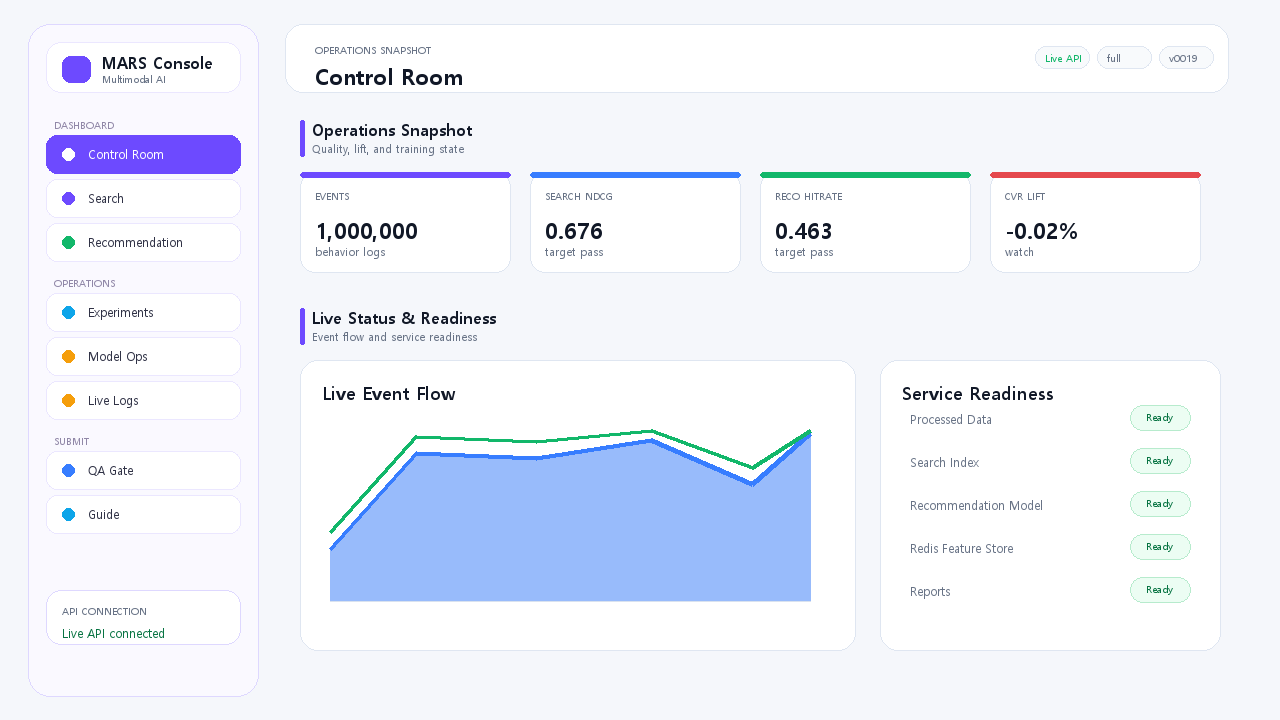
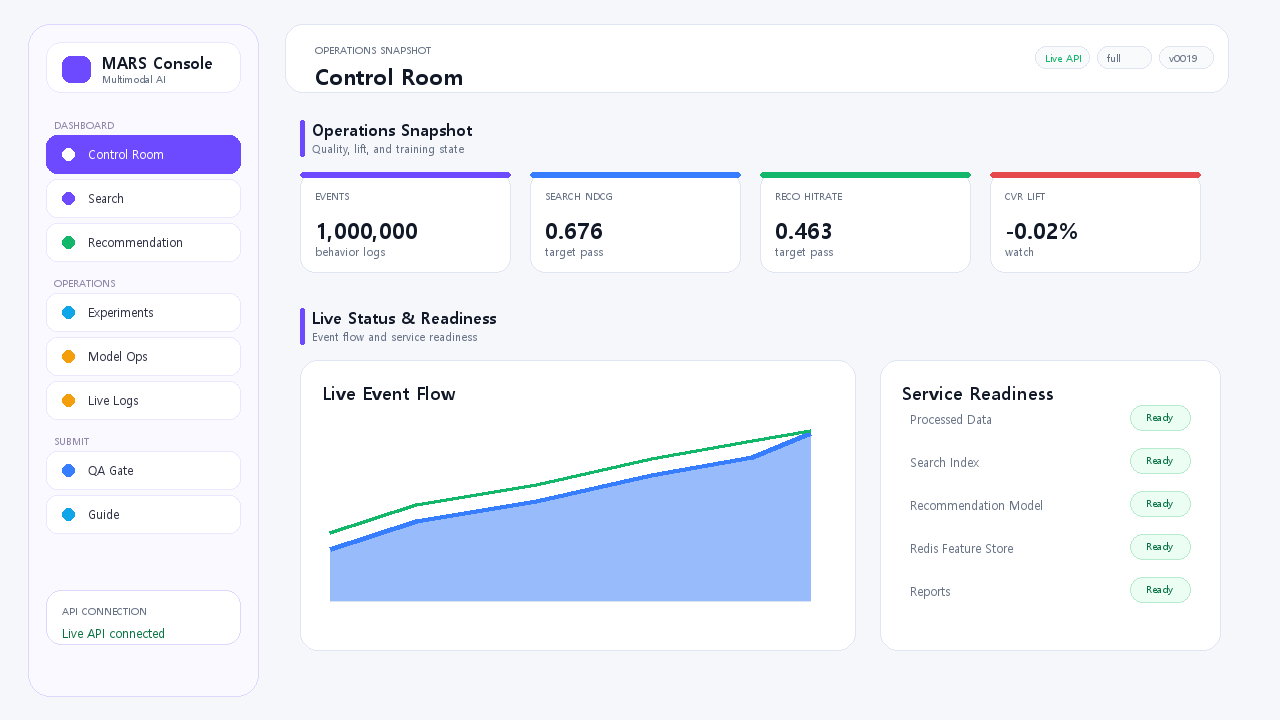
Restore cumulative live event flow

Changed region(s): [[0.25, 0.5806, 0.625, 0.7639]]

diff --git a/tests/test_dashboard_client.py b/tests/test_dashboard_client.py
@@ -132,6 +132,11 @@ def test_live_event_series_prefers_recent_five_minute_raw_timeline() -> None:
                     "event_type": "purchase",
                     "product_id": "P1",
                 },
+                {
+                    "timestamp": "2026-06-14T15:00:11.200000+00:00",
+                    "event_type": "search",
+                    "event_role": "user_action",
+                },
             ],
         }
     }
@@ -141,7 +146,7 @@ def test_live_event_series_prefers_recent_five_minute_raw_timeline() -> None:
     assert not series.empty
     assert series["minute"].nunique() == 3
     assert series["count"].max() == 1
-    assert series["count"].sum() == 3
+    assert series["count"].sum() == 4
     diffs = (
         series[["minute"]]
         .drop_duplicates()
@@ -169,8 +174,12 @@ def test_live_event_series_prefers_recent_five_minute_raw_timeline() -> None:
     assert {trace.mode for trace in figure.data} == {"lines"}
     assert {trace.stackgroup for trace in figure.data} == {"1"}
     assert {trace.yaxis for trace in figure.data} == {"y"}
-    assert all(max(trace.y) <= 1 for trace in figure.data)
-    assert figure.layout.yaxis.title.text == "이벤트 수"
+    assert {trace.line.shape for trace in figure.data} == {"linear"}
+    for trace in figure.data:
+        values = list(trace.y)
+        assert values == sorted(values)
+    assert max(max(trace.y) for trace in figure.data) > 1
+    assert figure.layout.yaxis.title.text == "누적 이벤트 수"
 
 
 def test_prepare_retrain_state_posts_admin_endpoint() -> None:

diff --git a/apps/dashboard/app.py b/apps/dashboard/app.py
@@ -2169,10 +2169,10 @@ def live_event_trend_figure(event_series: pd.DataFrame, lang: str) -> go.Figure:
     fig = px.area(
         plot_frame,
         x="minute",
-        y="count",
+        y="cumulative_count",
         color="event_label",
         line_group="event_label",
-        line_shape="spline",
+        line_shape="linear",
         category_orders={"event_label": labels},
         color_discrete_map=localized_event_color_map(lang),
         hover_data={
@@ -2188,14 +2188,14 @@ def live_event_trend_figure(event_series: pd.DataFrame, lang: str) -> go.Figure:
         },
     )
     fig.update_traces(
-        line=dict(width=1.8, shape="spline", smoothing=0.55),
+        line=dict(width=1.8, shape="linear"),
         mode="lines",
         selector=dict(type="scatter"),
     )
     fig.update_layout(
         legend=dict(traceorder="normal"),
         xaxis_title=ui_text(lang, "시간", "time"),
-        yaxis_title=ui_text(lang, "이벤트 수", "events"),
+        yaxis_title=ui_text(lang, "누적 이벤트 수", "cumulative events"),
     )
     return fig
 

diff --git a/scripts/dashboard/generate_guide_images.py b/scripts/dashboard/generate_guide_images.py
@@ -197,7 +197,7 @@ def area_chart(draw: ImageDraw.ImageDraw, box: tuple[int, int, int, int]) -> Non
     draw.line((x1, y2, x2, y2), fill="#d9e2ef", width=2)
     height = max(y2 - y1, 1)
     widths = [0.0, 0.18, 0.43, 0.67, 0.88, 1.0]
-    levels = [0.30, 0.86, 0.83, 0.94, 0.68, 0.98]
+    levels = [0.30, 0.46, 0.58, 0.73, 0.84, 0.98]
     points = [
         (int(x1 + (x2 - x1) * width), int(y2 - height * level))
         for width, level in zip(widths, levels, strict=True)
@@ -418,7 +418,7 @@ def live_logs() -> Image.Image:
         text(draw, (320 + index * 230, 382), title, fill=COLORS[index], font_obj=FONT_16)
         text(draw, (320 + index * 230, 412), ["139,644", "116,227"][index], font_obj=FONT_22)
         text(draw, (320 + index * 230, 442), "view / cart / purchase", fill=MUTED, font_obj=FONT_10)
-    small_panel(draw, (300, 500, 740, 685), "Minute Event Flow")
+    small_panel(draw, (300, 500, 740, 685), "Cumulative Event Flow")
     area_chart(draw, (330, 555, 708, 628))
     for index, (name, color) in enumerate(
         [("Search", BLUE), ("View", CYAN), ("Cart", ORANGE), ("Purchase", GREEN)]